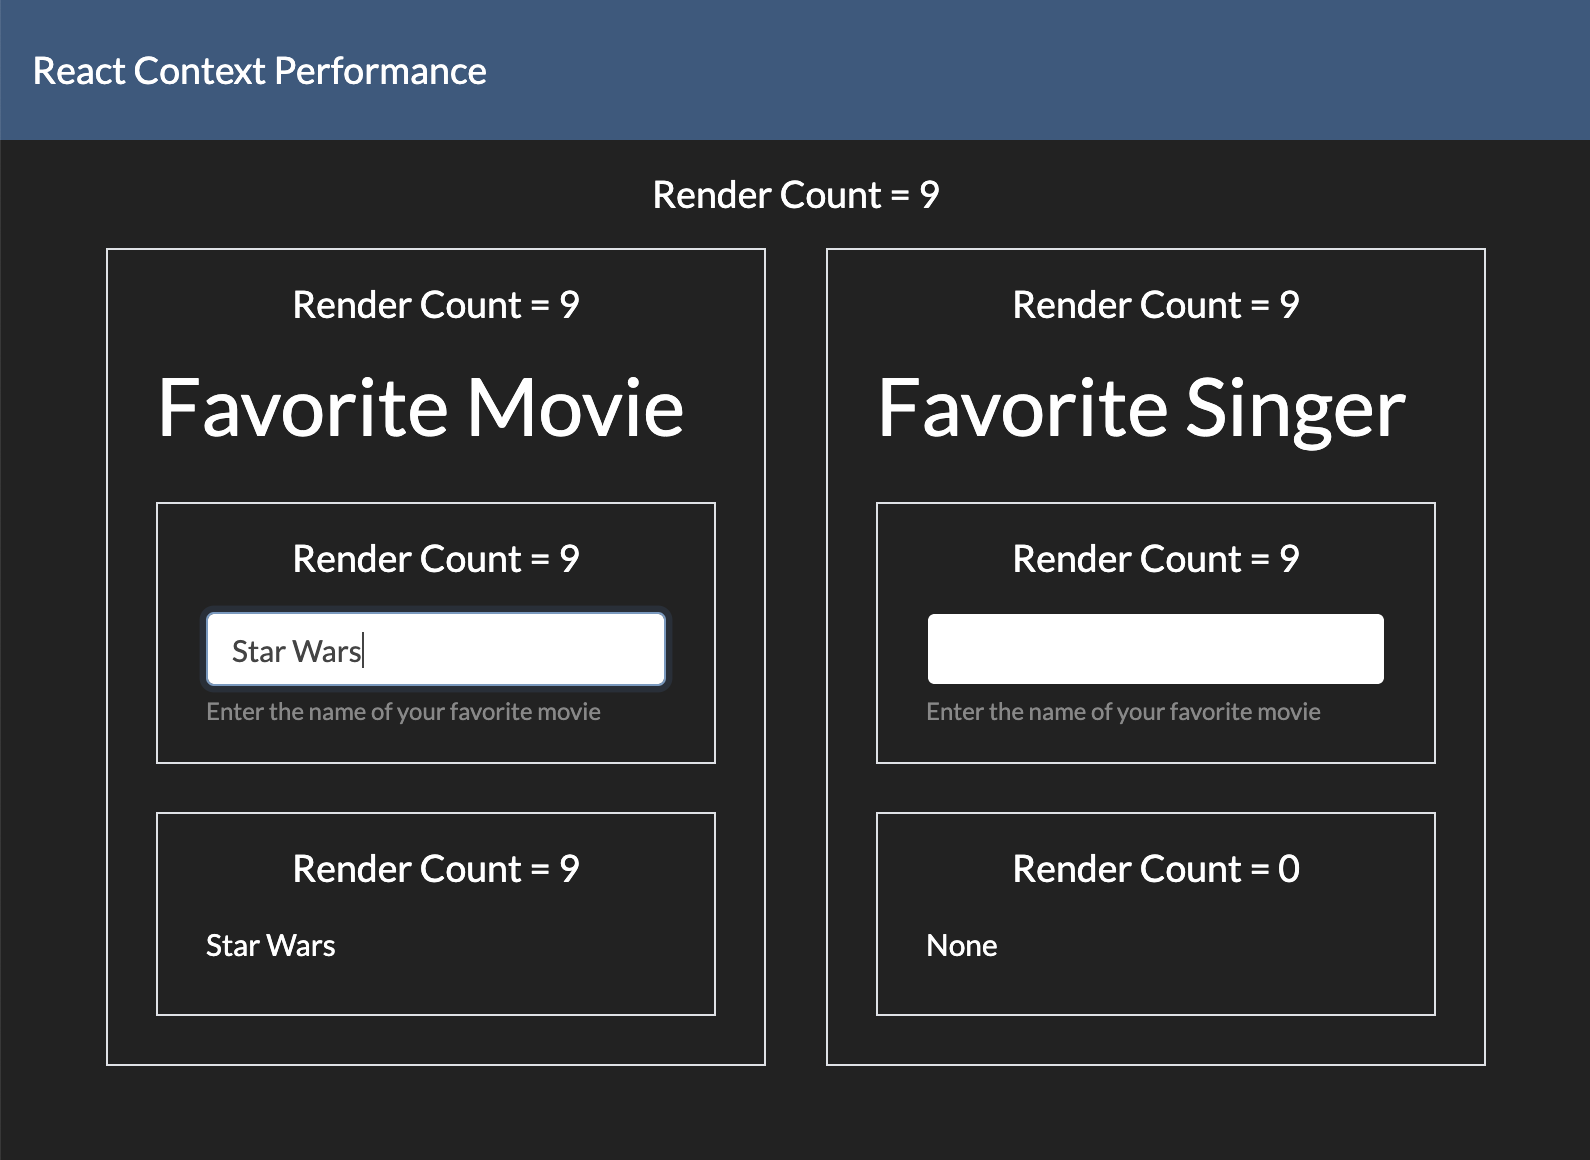
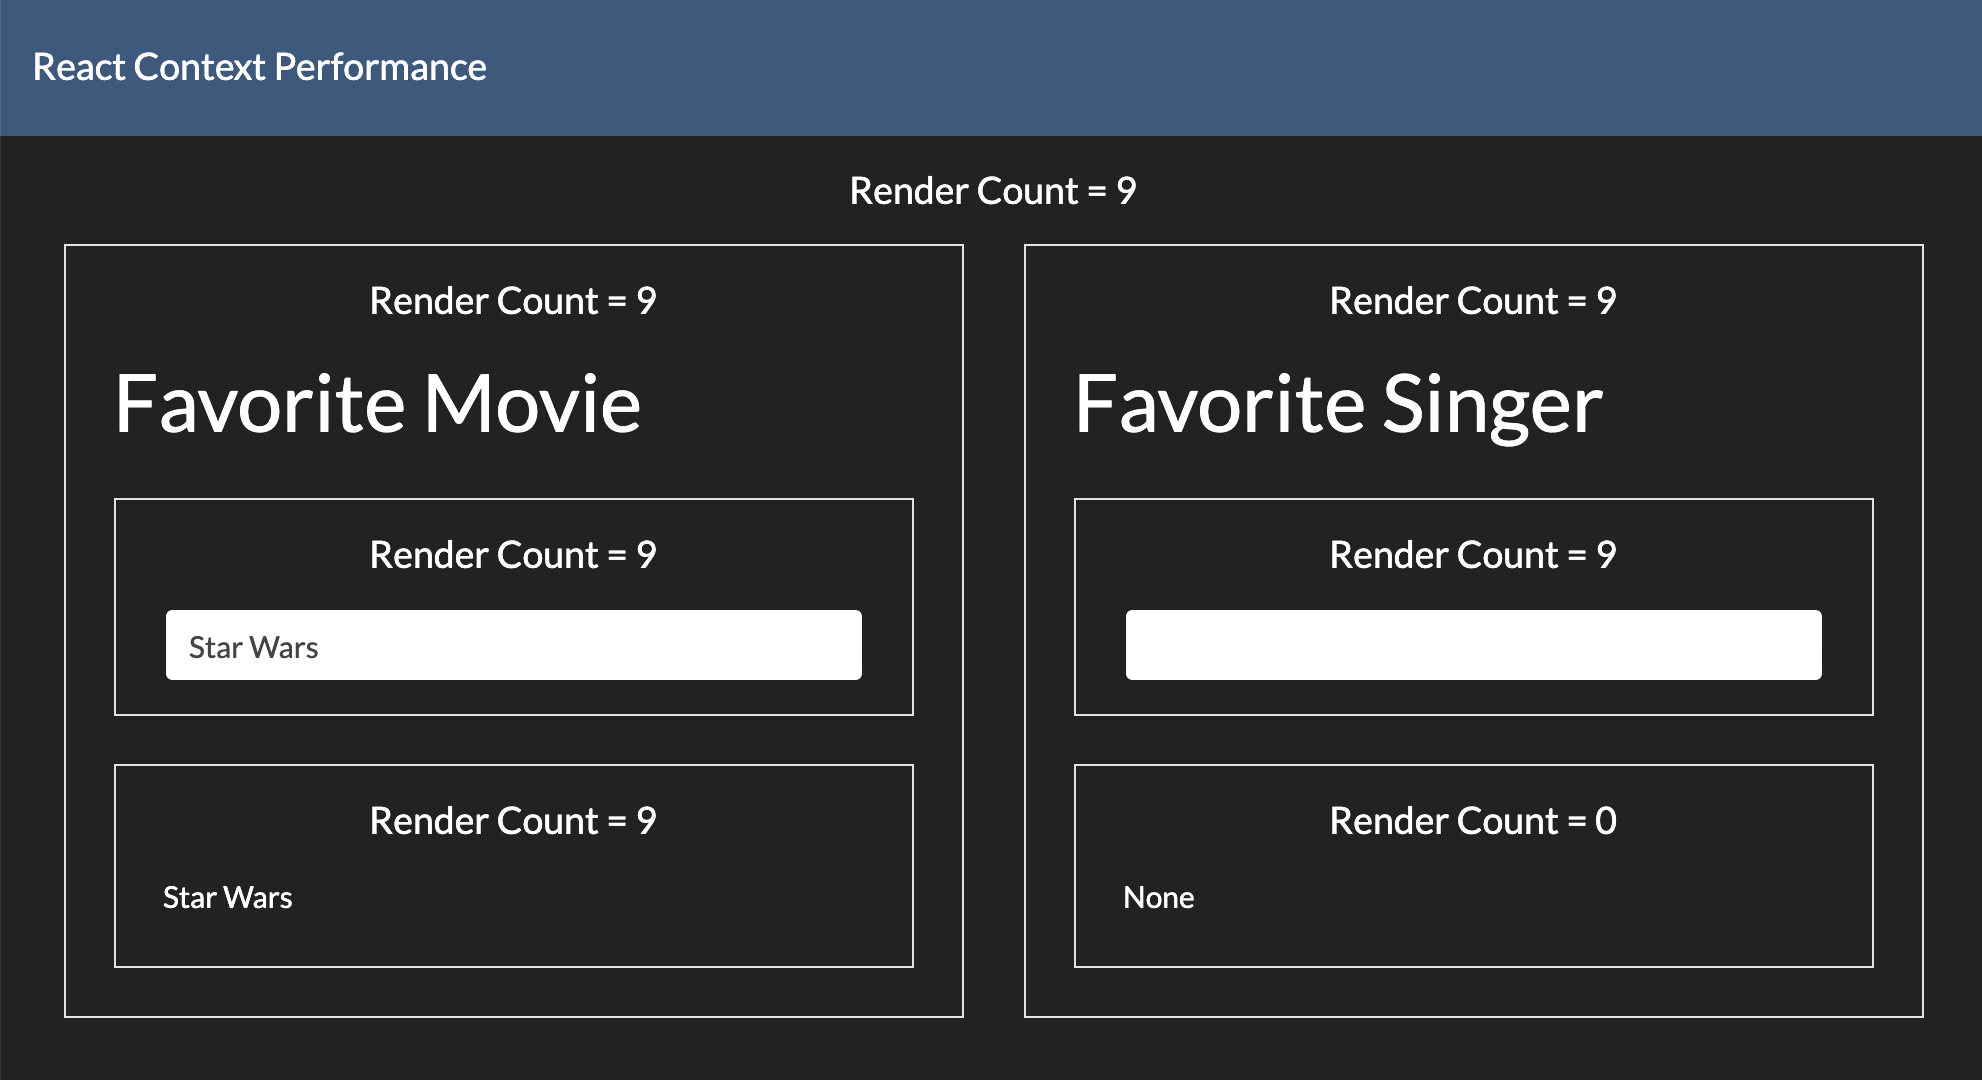
Removed helper text from input control

diff --git a/src/components/ContentEditor.tsx b/src/components/ContentEditor.tsx
@@ -23,9 +23,6 @@ export const ContentEditor = React.memo(
                         value={value}
                         onChange={handleChange}
                     />
-                    <small className="form-text text-muted">
-                        Enter the name of your favorite movie
-                    </small>
                 </div>
             </div>
         );
